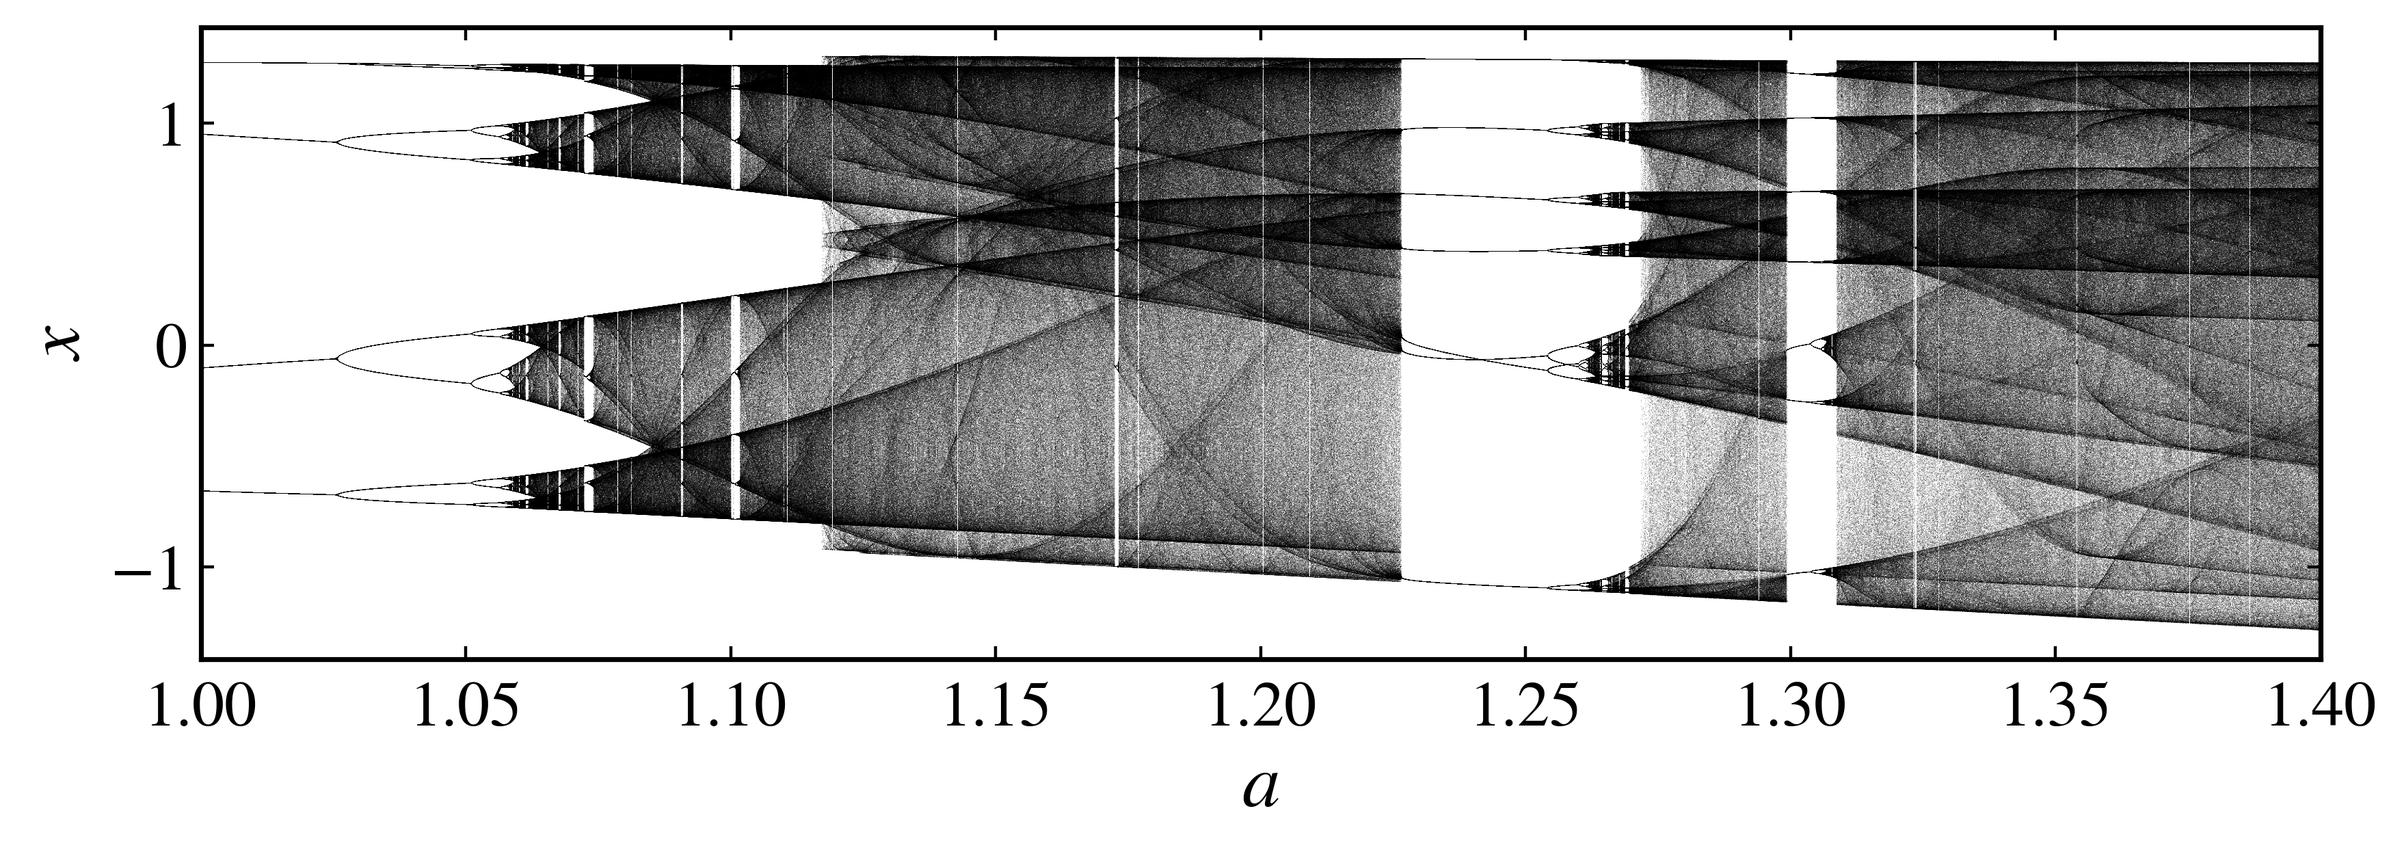
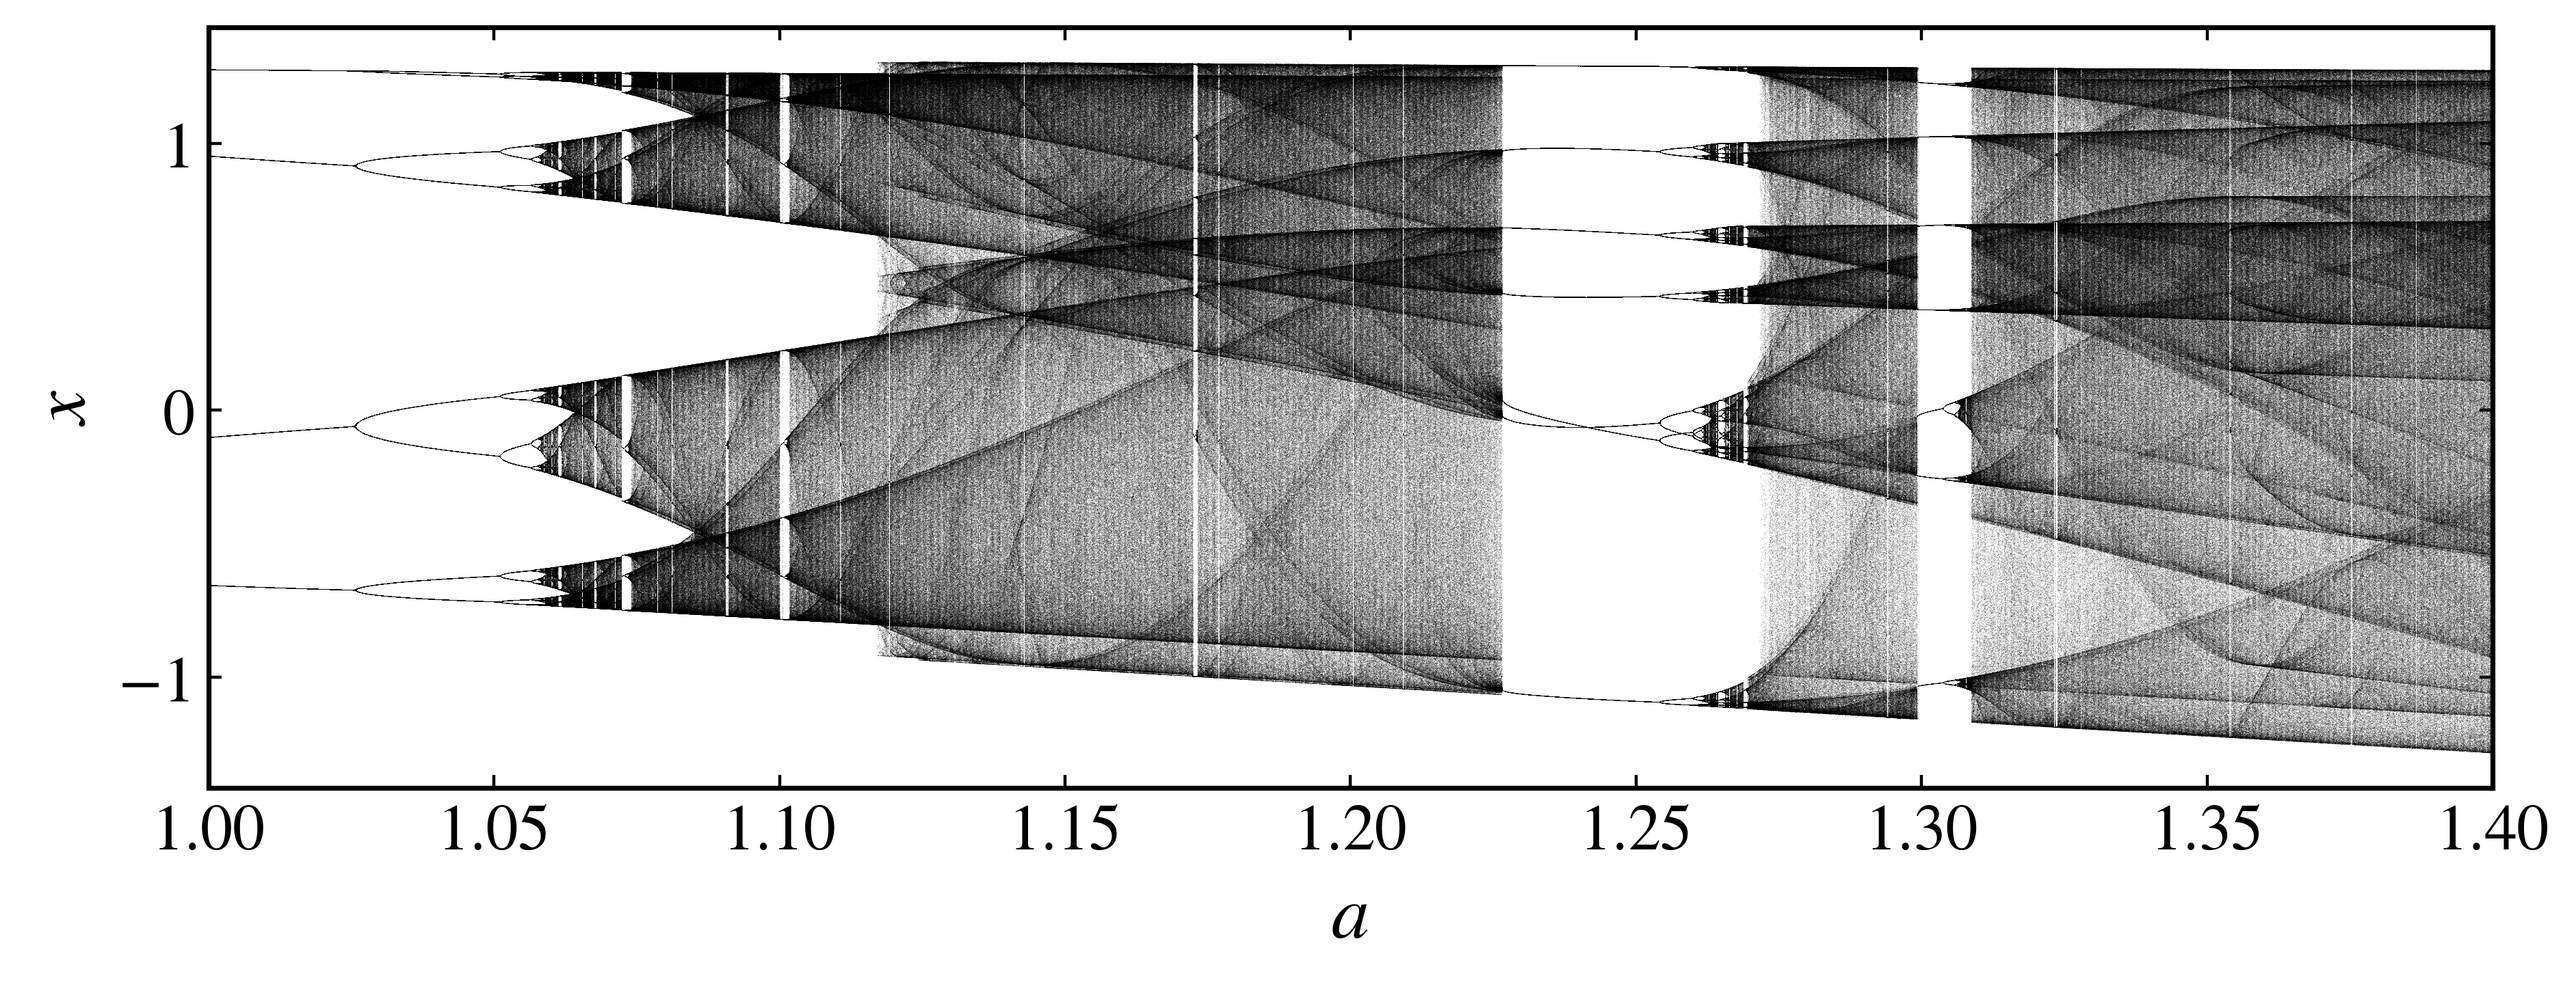
docs: revamp discrete bifurcation guide

diff --git a/docs/source/dds_bifurcation_diagram.rst b/docs/source/dds_bifurcation_diagram.rst
@@ -1,311 +1,128 @@
-Bifurcation diagram
--------------------
+Bifurcation diagrams
+--------------------
 
-Nonlinear dynamical systems often depend on a parameter, and the bifurcation diagram shows how the system's behavior changes as this parameter varies. 
+A bifurcation diagram shows how the long-term behavior of a dynamical system changes as a parameter varies. The :py:meth:`bifurcation_diagram <pynamicalsys.core.discrete_dynamical_systems.DiscreteDynamicalSystem.bifurcation_diagram>` method sweeps one parameter, discards an optional transient, and records one state coordinate at each remaining iteration.
 
-Logistic map example
-~~~~~~~~~~~~~~~~~~~~
+Logistic map
+~~~~~~~~~~~~
 
-As a first example, we will create a bifurcation diagram for the logistic map, which is defined as:
+The logistic map is
 
 .. math::
-    x_{n+1} = r x_n (1 - x_n),
 
-where :math:`r` is the parameter that we will vary. The parameter :math:`r` typically ranges from 0 to 4, however, we will focus on the range from 2.5 to 4.0, which is where interesting bifurcations occur.
+    x_{n+1}=rx_n(1-x_n),
 
-Just as in our previous examples, we start by importing the necessary libraries and creating the :py:class:`DiscreteDynamicalSystem <pynamicalsys.core.discrete_dynamical_systems.DiscreteDynamicalSystem>` object for the logistic map.
+where :math:`r` controls the transition between fixed, periodic, and chaotic behavior. Sweep 3000 evenly spaced values from :math:`r=2.5` to :math:`r=4`:
 
 .. code-block:: python
 
-    from pynamicalsys import DiscreteDynamicalSystem as dds
     import numpy as np
     import matplotlib.pyplot as plt
-    import seaborn as sns
+    from pynamicalsys import DiscreteDynamicalSystem as dds, PlotStyler
 
-    ds = dds(model="logistic map")
+    system = dds(model="logistic map")
+    parameter_range = (2.5, 4.0, 3_000)
+    total_time = 4_000
+    transient_time = 1_000
 
-We are going to use the :py:meth:`bifurcation_diagram <pynamicalsys.core.discrete_dynamical_systems.DiscreteDynamicalSystem.bifurcation_diagram>` method from the :py:class:`DiscreteDynamicalSystem <pynamicalsys.core.discrete_dynamical_systems.DiscreteDynamicalSystem>` class to create the bifurcation diagram. This method requires the following parameters:
-
-- `u`: the initial condition for the system, which we will set to 0.2.
-- `param_index`: the index of the parameter we are varying, which is 0 for the logistic map.
-- `param_range`: a tuple defining the range of the parameter :math:`r`, i.e., (start, end, number of points), which we will set to (2.5, 4.0, 3000).
-- `total_time`: the total number of iterations to run the system, which we will set to 4000.
-- `transient_time`: the number of iterations to discard before plotting, which we will set to 1000.
-
-The :py:meth:`bifurcation_diagram <pynamicalsys.core.discrete_dynamical_systems.DiscreteDynamicalSystem.bifurcation_diagram>` method returns two Numpy arrays: `param_values` with shape `(len(param_range),)` which contain the parameter values, and `bifurcation_values`, with shape `(len(param_range), total_time - transient_time)`, which contain the coordinates of the bifurcation diagram at each parameter value.
-
-.. code-block:: python
-
-    u = 0.2
-    param_index = 0
-    param_range = (2.5, 4.0, 3000)
-    total_time = 4000
-    transient_time = 1000
-
-    param_values, bifurcation_diagram = ds.bifurcation_diagram(
-        u=u,
-        param_index=param_index,
-        param_range=param_range,
+    parameter_values, bifurcation_values = system.bifurcation_diagram(
+        u=0.2,
+        param_index=0,
+        param_range=parameter_range,
         total_time=total_time,
-        transient_time=transient_time
+        transient_time=transient_time,
     )
 
-Since `param_values` is a 1D array and `bifurcation_diagram` is a 2D array, we need to transform both arrays into a format suitable for plotting. We will use the `np.repeat` function to repeat the `param_values` for each bifurcation value, and then flatten the `bifurcation_diagram` array to create a 1D array of bifurcation values.
+The tuple ``parameter_range`` contains ``(start, stop, num_points)``. Its third value requests 3000 parameter values, so ``parameter_values`` has shape ``(3000,)``. The method stores ``total_time - transient_time`` samples for every parameter value, giving ``bifurcation_values`` shape ``(3000, 3000)``.
+
+Repeat each parameter value once for every stored sample, then flatten the observable values for plotting:
 
 .. code-block:: python
 
-    param_mesh = np.repeat(param_values[:, np.newaxis],
-                           bifurcation_diagram.shape[1],
-                           axis=1)
+    parameter_plot = np.repeat(
+        parameter_values,
+        bifurcation_values.shape[1],
+    )
+    observable_plot = bifurcation_values.ravel()
 
-    # Flatten both arrays
-    param_values = param_mesh.flatten()
-    bifurcation_diagram = bifurcation_diagram.flatten()
-
-Now we can plot the bifurcation diagram using Matplotlib.
-
-.. code-block:: python
-
-    # Set the style for the plot
-    from pynamicalsys import PlotStyler
     ps = PlotStyler()
     ps.apply_style()
-
-    # Create the figure and axis
-    fig, ax = plt.subplots(figsize=(10, 3))
-    ps.set_tick_padding(ax, pad_x = 6)
-
-    # Plot the bifurcation diagram
-    plt.scatter(param_values, bifurcation_diagram,
-                color='black', s=0.01, edgecolor='none')
-
-    # Set the labels and limits for the plot    
-    plt.xlabel("$r$")
-    plt.ylabel("$x$")
-    plt.xlim(param_range[0], param_range[1])
-    plt.ylim(0, 1)
-
+    fig, ax = plt.subplots(figsize=(10, 4))
+    ax.scatter(parameter_plot, observable_plot, color="black", s=0.01, edgecolor="none")
+    ax.set_xlim(parameter_range[0], parameter_range[1])
+    ax.set_ylim(0.0, 1.0)
+    ax.set_xlabel("$r$")
+    ax.set_ylabel("$x$")
+    fig.tight_layout()
     plt.show()
 
-.. figure:: images/logistic_map_bifurcation_diagram.png 
-   :align: center
-   :width: 100%
-   
-   Bifurcation diagram of the logistic map.
+.. figure:: images/logistic_map_bifurcation_diagram.png
+    :align: center
+    :width: 100%
 
-Hénon map example
-~~~~~~~~~~~~~~~~~
+    Bifurcation diagram of the logistic map.
 
-As a second example, we will create a bifurcation diagram for the Hénon map, which is defined as:
+The logistic map has only one parameter, so ``param_index=0`` selects :math:`r`. For a system with several parameters, the index identifies which entry in the parameter array is varied.
+
+Hénon map
+~~~~~~~~~
+
+The Hénon map is
 
 .. math::
-    \begin{align*}
-        x_{n+1} &= 1 - a x_n^2 + y_n, \\
-        y_{n+1} &= b x_n,
-    \end{align*}
 
-where :math:`a` and :math:`b` are parameters that we will vary. We will focus on the range of :math:`a` from 1.0 to 1.4 and set :math:`b = 0.3`. Now, our system has two parameters. Since we are interested in changing :math:`a`, we will set `param_index` to 0. However, if for instance we wanted to change :math:`b`, we would set `param_index` to 1. Additionally, we need to inform the value of :math:`b`. We do so by passing to `set_parameters` a list of two values, where the first is a dummy value and the second one is the value of :math:`b`. 
+    \begin{aligned}
+        x_{n+1} &= 1-ax_n^2+y_n, \\
+        y_{n+1} &= bx_n.
+    \end{aligned}
+
+Its parameter order is ``[a, b]``. To vary :math:`a` while holding :math:`b=0.3`, store a placeholder in the first position. The sweep replaces that entry at every parameter value:
 
 .. code-block:: python
 
-    # Create an instance of the Hénon map
-    ds = dds(model="henon map")
+    import numpy as np
+    import matplotlib.pyplot as plt
+    from pynamicalsys import DiscreteDynamicalSystem as dds, PlotStyler
 
-    # Parameters for the Hénon map
-    b = 0.3
-    parameters = [0, b]
-    ds.set_parameters(parameters)
-    total_time = 5000
-    transient_time = 1000
+    system = dds(model="henon map")
+    system.set_parameters([0.0, 0.3])
 
-    # Generate the bifurcation diagram for varying 'a'
-    param_index = 0
-    param_range = (1.0, 1.4, 3000)
-
-    param_values, bifurcation_diagram = ds.bifurcation_diagram(
+    parameter_range = (1.0, 1.4, 3_000)
+    total_time = 5_000
+    transient_time = 1_000
+    parameter_values, bifurcation_values = system.bifurcation_diagram(
         u=[0.2, 0.2],
-        param_index=param_index,
-        param_range=param_range,
-        total_time=total_time,
-        transient_time=transient_time
-    )
-    # Repeat the parameter values for each bifurcation value
-    param_mesh = np.repeat(param_values[:, np.newaxis],
-                 bifurcation_diagram.shape[1],
-                 axis=1)
-    # Flatten both arrays
-    param_values = param_mesh.flatten()
-    bifurcation_diagram = bifurcation_diagram.flatten()
-
-We plot the bifurcation diagram for the Hénon map in a similar way as we did for the logistic map.
-
-.. code-block:: python
-
-    # Set the style for the plot
-    ps = PlotStyler()
-    ps.apply_style()
-
-    # Create the figure and axis
-    fig, ax = plt.subplots(figsize=(10, 3))
-    ps.set_tick_padding(ax, pad_x = 6)
-
-    # Plot the bifurcation diagram
-    plt.scatter(param_values, bifurcation_diagram,
-                color='black', s=0.01, edgecolor='none')
-
-    # Set the labels and limits for the plot    
-    plt.xlabel("$a$")
-    plt.ylabel("$x$")
-    plt.xlim(param_range[0], param_range[1])
-
-    plt.show()
-
-.. figure:: images/henon_map_bifurcation_diagram.png 
-   :align: center
-   :width: 100%
-   
-   Bifurcation diagram of the Hénon map.
-
-An additional parameter can be passed to the :py:meth:`bifurcation_diagram <pynamicalsys.core.discrete_dynamical_systems.DiscreteDynamicalSystem.bifurcation_diagram>` method, which is which observable to use for the bifurcation diagram, i.e., which coordinate. By default, the first coordinate is used, which is :math:`x_n` for the Hénon map. If we wanted to use the second coordinate, we would set `observable_index=1`.
-
-Nontwist sine circle map example
-~~~~~~~~~~~~~~~~~~~~~~~~~~~~~~~~
-
-As our final example, we will create a bifurcation diagram for the nontwist sine circle map to demonstrate the last two parameters the `bifurcation_method` takes. The nontwist sine circle map is defined as:
-
-.. math::
-    \begin{align*}
-        x_{n+1} &= x_n + a\{1 - [\Omega - b\sin(2\pi x_n)]^2\} \bmod1,
-    \end{align*}
-
-where :math:`\Omega \in \mathbb{R}`, :math:`a \in [0, 1]`, and :math:`b \in \mathbb{R}`. We will vary the parameter :math:`b` in the range from 1.2 to 1.4, while keeping :math:`\Omega = 0.3` and :math:`a = 0.26`. This model is not built-in, so we need to create a custom model for it.
-
-.. code-block:: python
-
-    from numba import njit
-    @njit
-    def nontwist_sine_circle_map(u, parameters):
-        x = u[0]
-        a, b, omega = parameters
-
-        x_new = (x + a * (1 - (omega - b * np.sin(2 * np.pi * x)) ** 2)) % 1
-
-        return np.array([x_new])
-
-And also create a :py:class:`DiscreteDynamicalSystem <pynamicalsys.core.discrete_dynamical_systems.DiscreteDynamicalSystem>` object for it.
-
-.. code-block:: python
-
-    ds = dds(mapping=nontwist_sine_circle_map, system_dimension=1, number_of_parameters=3)
-
-In both previous examples, the :py:meth:`bifurcation_diagram <pynamicalsys.core.discrete_dynamical_systems.DiscreteDynamicalSystem.bifurcation_diagram>` method used a *fixed* initial condition, i.e., the initial condition was the same for all parameter values. However, in this case, we will use as the initial condition the last value of the previous parameter value, i.e., we will use a *continuation* method. To do this, we will set `continuation=True` in the :py:meth:`bifurcation_diagram <pynamicalsys.core.discrete_dynamical_systems.DiscreteDynamicalSystem.bifurcation_diagram>` method. We can also set `return_last_state=True` to return the last state of the system, which will be used as the initial condition for the backward continuation, i.e., instead of changaing the parameter `b` in the forward direction, we will change it in the backward direction (decreasing).
-
-Since we are changing the parameter `b`, and we have defined the parameter list as `parameters = [a, b, omega]`, we will set `param_index=1` to indicate that we are varying the second parameter in the list. For the forward continuation, we will set the initial condition `u` to `0.5`, and modify the optional parameters `continuation` and `return_last_state` as described above.
-
-.. code-block:: python
-
-    # Parameters for the map
-    a = 0.26
-    omega = 0.3
-    parameters = [a, 0, omega]
-    ds.set_parameters(parameters)
-    # Iteration and transient times
-    total_time = 5000
-    transient_time = 1000
-
-    # Generate the bifurcation diagram for varying 'b'
-    param_index = 1
-    param_range = (1.2, 1.4, 3000)
-
-    param_values, bifurcation_diagram, u_new = ds.bifurcation_diagram(
-        u=[0.5],
-        param_index=param_index,
-        param_range=param_range,
+        param_index=0,
+        param_range=parameter_range,
         total_time=total_time,
         transient_time=transient_time,
-        continuation=True,
-        return_last_state=True
     )
 
-    param_mesh = np.repeat(param_values[:, np.newaxis],
-                           bifurcation_diagram.shape[1],
-                           axis=1)
-
-    # Flatten both arrays
-    param_values = param_mesh.flatten()
-    bifurcation_diagram = bifurcation_diagram.flatten()
-
-Now, for the backward continuation, we will use the last state `u_new` as the initial condition and set `continuation=True` again.
-
-.. code-block:: python
-
-    # Parameters for the map
-    a = 0.26
-    omega = 0.3
-    parameters = [a, 0, omega]
-    ds.set_parameters(parameters)
-    # Iteration and transient times
-    total_time = 5000
-    transient_time = 1000
-
-    # Generate the bifurcation diagram for varying 'b'
-    param_index = 1
-    param_range = (1.4, 1.2, 3000) # Note that we reverse the range for backward continuation
-
-    param_values_back, bifurcation_diagram_back = ds.bifurcation_diagram(
-        u=u_new,
-        param_index=param_index,
-        param_range=param_range,
-        total_time=total_time,
-        transient_time=transient_time,
-        continuation=True
+    parameter_plot = np.repeat(
+        parameter_values,
+        bifurcation_values.shape[1],
     )
+    observable_plot = bifurcation_values.ravel()
 
-    param_mesh_back = np.repeat(param_values_back[:, np.newaxis], bifurcation_diagram_back.shape[1], axis=1)
-
-    # Flatten both arrays
-    param_values_back = param_mesh_back.flatten()
-    bifurcation_diagram_back = bifurcation_diagram_back.flatten()
-
-Now we can plot the bifurcation diagram for the nontwist sine circle map, combining both forward and backward continuations.
-
-.. code-block:: python
-
-    # Set the style for the plot
     ps = PlotStyler()
     ps.apply_style()
-
-    # Create the figure and axis
-    fig, ax = plt.subplots(2, 1, figsize=(10, 6), sharex=True, sharey=True)
-    ps.set_tick_padding(ax[1], pad_x = 6)
-
-    # Plot the bifurcation diagram
-    ax[0].scatter(param_values, bifurcation_diagram,
-                  color='black', s=0.01, edgecolor='none')
-    ax[1].scatter(param_values_back, bifurcation_diagram_back,
-                  color='r', s=0.01, edgecolor='none')
-
-    # Set the labels and limits for the plot
-    ax[0].set_ylim(0, 1)
-    ax[0].set_xlim(param_range[1], param_range[0])    
-    ax[0].set_ylabel("$x$")
-    ax[1].set_ylabel("$x$")
-    ax[1].set_xlabel("$b$")
-
-    # Add arrows to indicate the direction of the bifurcation
-    x_arrow = (1.205, 1.225)
-    y_arrow = 0.1
-    ax[0].annotate("", xy=(x_arrow[1], y_arrow), xytext=(x_arrow[0], y_arrow),
-                arrowprops=dict(arrowstyle="->", lw=2))
-
-    ax[1].annotate("", xy=(x_arrow[0], 0.1), xytext=(x_arrow[1], 0.1),
-                arrowprops=dict(arrowstyle="->", lw=2, color='r'))
-
-    plt.tight_layout(pad=0.1)
+    fig, ax = plt.subplots(figsize=(10, 4))
+    ax.scatter(parameter_plot, observable_plot, color="black", s=0.01, edgecolor="none")
+    ax.set_xlim(parameter_range[0], parameter_range[1])
+    ax.set_xlabel("$a$")
+    ax.set_ylabel("$x$")
+    fig.tight_layout()
     plt.show()
 
-.. figure:: images/nontwist_sine_circle_bifurcation_diagram.png 
-   :align: center
-   :width: 100%
-   
-   Bifurcation diagram of the nontwist sine circle map for forward (top) and backward (bottom) continuations.
+.. figure:: images/henon_map_bifurcation_diagram.png
+    :align: center
+    :width: 100%
+
+    Bifurcation diagram of the Hénon map with :math:`b=0.3`.
+
+By default, the recorded observable is the first state coordinate, selected by ``observable_index=0``. Pass ``observable_index=1`` to record :math:`y` instead. The observable index changes the plotted values but not the system trajectory.
+
+Continuation sweeps
+~~~~~~~~~~~~~~~~~~~
+
+By default, every parameter value starts from the initial state supplied through ``u``. Set ``continuation=True`` to start each parameter value from the final state obtained at the preceding value instead. The order of ``start`` and ``stop`` in ``param_range`` determines the sweep direction. Set ``return_last_state=True`` when the final state of the entire sweep is also needed. The returned state has shape ``(system_dimension,)`` and can be used as the initial condition for another continuation sweep.
